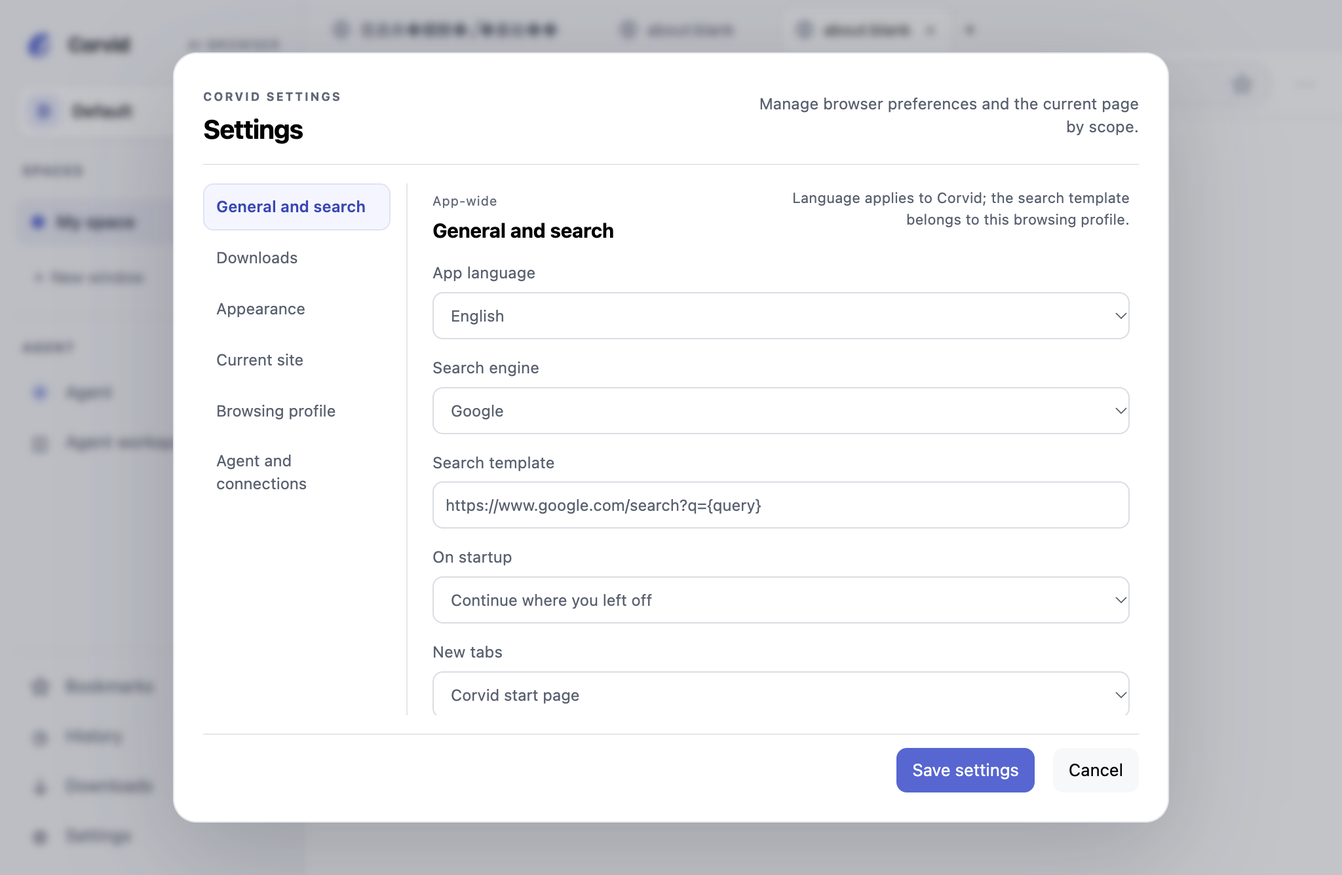
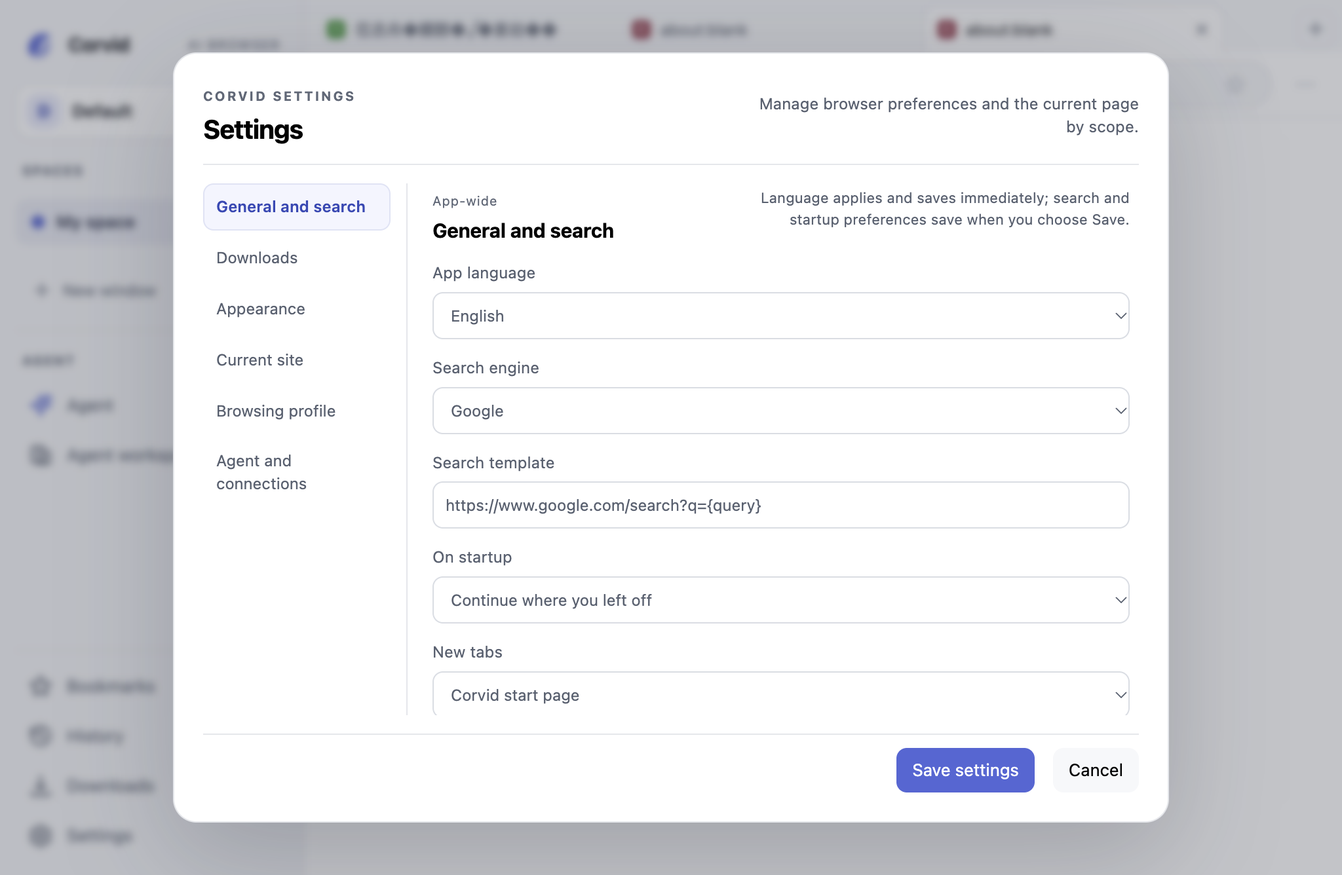
完善设置离开决策与窄窗首屏

diff --git a/desktop/renderer.js b/desktop/renderer.js
@@ -808,7 +808,7 @@ document.querySelector('#profile-deletion-form').onsubmit=async event=>{
 document.querySelector('#cancel-profile-deletion').onclick=()=>document.querySelector('#profile-deletion').close();
 document.querySelector('#profile-deletion').addEventListener('cancel',event=>{if(document.querySelector('#profile-deletion-form').getAttribute('aria-busy')==='true')event.preventDefault();});
 document.querySelector('#profile-deletion').onclose=()=>{profileDeletionPreviewVersion++;return api.invoke('setPanel',{open:Boolean(libraryKind),workspace:Boolean(libraryKind)});};
-let settingsProfileId;
+let settingsProfileId, settingsBaseline=null, pendingSettingsNavigation=null, pendingSettingsDraft=null, pendingSettingsTarget='settings-general', pendingSettingsTrigger=null;
 async function renderProfileExtensions(){
   const list=document.querySelector('#profile-extension-list');list.replaceChildren();
   const {extensions}=await api.invoke('listProfileExtensions',{profileId:settingsProfileId});
@@ -863,7 +863,11 @@ async function renderAgentAccess(){
     }
   }catch(error){document.querySelector('#agent-access-error').textContent=extensionMessages.t('cannotReadAuthorizedClients',{message:userFacingAgentError(error)});}
 }
-document.querySelector('#show-settings').onclick=async()=>{settingsProfileId=state.activeProfileId;const settings=await api.invoke('settings',{profileId:settingsProfileId});const preset=document.querySelector('#search-preset');const known=[...preset.options].some(option=>option.value===settings.searchTemplate);preset.value=known?settings.searchTemplate:'custom';document.querySelector('#search-template').value=settings.searchTemplate;document.querySelector('#theme-preference').value=settings.themePreference||'system';const preferences=settings.browserPreferences||{};document.querySelector('#startup-behavior').value=preferences.startupBehavior||'restore';document.querySelector('#new-tab-behavior').value=preferences.newTabBehavior||'home';document.querySelector('#download-directory').value=preferences.downloadDirectory||'';document.querySelector('#ask-where-to-save').checked=preferences.askWhereToSave!==false;for(const button of document.querySelectorAll('[data-settings-target]'))button.removeAttribute('aria-current');document.querySelector('#settings-nav-general').setAttribute('aria-current','location');for(const section of document.querySelectorAll('.settings-section'))section.hidden=section.id!=='settings-general';document.querySelector('#settings-content').scrollTop=0;document.querySelector('#settings-error').textContent='';await renderProfileExtensions();renderSettingsCurrentSite();await openShellDialog('#settings');};
+function collectSettingsDraft(){return {searchTemplate:document.querySelector('#search-template').value,startupBehavior:document.querySelector('#startup-behavior').value,newTabBehavior:document.querySelector('#new-tab-behavior').value,downloadDirectory:document.querySelector('#download-directory').value,askWhereToSave:document.querySelector('#ask-where-to-save').checked};}
+function applySettingsDraft(draft){const preset=document.querySelector('#search-preset');const known=[...preset.options].some(option=>option.value===draft.searchTemplate);preset.value=known?draft.searchTemplate:'custom';document.querySelector('#search-template').value=draft.searchTemplate;document.querySelector('#startup-behavior').value=draft.startupBehavior;document.querySelector('#new-tab-behavior').value=draft.newTabBehavior;document.querySelector('#download-directory').value=draft.downloadDirectory;document.querySelector('#ask-where-to-save').checked=draft.askWhereToSave;}
+function settingsDraftIsDirty(){return Boolean(settingsBaseline&&JSON.stringify(collectSettingsDraft())!==JSON.stringify(settingsBaseline));}
+async function showSettings({draft=null,targetId='settings-general',focusSelector=null}={}){settingsProfileId=state.activeProfileId;const settings=await api.invoke('settings',{profileId:settingsProfileId});document.querySelector('#theme-preference').value=settings.themePreference||'system';const preferences=settings.browserPreferences||{};settingsBaseline={searchTemplate:settings.searchTemplate,startupBehavior:preferences.startupBehavior||'restore',newTabBehavior:preferences.newTabBehavior||'home',downloadDirectory:preferences.downloadDirectory||'',askWhereToSave:preferences.askWhereToSave!==false};applySettingsDraft(draft||settingsBaseline);for(const button of document.querySelectorAll('[data-settings-target]'))button.removeAttribute('aria-current');const selected=[...document.querySelectorAll('[data-settings-target]')].find(button=>button.dataset.settingsTarget===targetId)||document.querySelector('#settings-nav-general');selected.setAttribute('aria-current','location');for(const section of document.querySelectorAll('.settings-section'))section.hidden=section.id!==selected.dataset.settingsTarget;document.querySelector('#settings-content').scrollTop=0;document.querySelector('#settings-error').textContent='';await renderProfileExtensions();renderSettingsCurrentSite();await openShellDialog('#settings',focusSelector);}
+document.querySelector('#show-settings').onclick=()=>void showSettings();
 function renderSettingsCurrentSite(){
   const tab=activeTab();let origin='';
   try{const url=new URL(tab?.url||'');if(['http:','https:'].includes(url.protocol))origin=url.origin;}catch{}
@@ -898,15 +902,21 @@ document.querySelector('#settings-clear-site').onclick=()=>runSettingsSiteAction
 document.querySelector('#choose-download-directory').onclick=async()=>{const button=document.querySelector('#choose-download-directory');button.disabled=true;try{const result=await api.invoke('chooseDownloadDirectory');if(!result.canceled)document.querySelector('#download-directory').value=result.path;}catch(error){document.querySelector('#settings-error').textContent=userFacingAgentError(error);}finally{button.disabled=false;}};
 document.querySelector('#reset-download-directory').onclick=()=>{document.querySelector('#download-directory').value='';document.querySelector('#settings-error').textContent='';};
 document.querySelector('#ui-locale').onchange=async event=>{const locale=event.currentTarget.value,previous=state.uiLocale;extensionMessages.setLocale(locale);try{await renderProfileExtensions();await api.invoke('setUiLocale',{locale});renderSettingsCurrentSite();}catch{extensionMessages.setLocale(previous);await renderProfileExtensions();renderSettingsCurrentSite();event.currentTarget.value=state.uiLocale;document.querySelector('#settings-error').textContent=extensionMessages.t('localeSaveFailed');}};
-document.querySelector('#open-agent-access').onclick=async()=>{document.querySelector('#settings').close();document.querySelector('#agent-access-error').textContent='';document.querySelector('#agent-client-token-panel').hidden=true;document.querySelector('#agent-client-token').value='';document.querySelector('#agent-client-form').reset();await renderAgentAccess();await openShellDialog('#agent-access-dialog','#agent-client-name');};
+async function openAgentAccessManager(){document.querySelector('#agent-access-error').textContent='';document.querySelector('#agent-client-token-panel').hidden=true;document.querySelector('#agent-client-token').value='';document.querySelector('#agent-client-form').reset();await renderAgentAccess();await openShellDialog('#agent-access-dialog','#agent-client-name');}
+document.querySelector('#open-agent-access').onclick=event=>void leaveSettingsFor(openAgentAccessManager,event.currentTarget);
 document.querySelector('#close-agent-access').onclick=()=>document.querySelector('#agent-access-dialog').close();
 document.querySelector('#agent-access-dialog').addEventListener('close',()=>{document.querySelector('#agent-client-token').value='';document.querySelector('#agent-client-token-panel').hidden=true;document.querySelector('#agent-client-copy-status').textContent='';});
 document.querySelector('#agent-client-form').onsubmit=async event=>{event.preventDefault();const roomIds=[...document.querySelectorAll('input[name="agent-room-id"]:checked')].map(input=>input.value);const error=document.querySelector('#agent-access-error');error.textContent='';if(!roomIds.length){error.textContent=extensionMessages.t('selectAtLeastOneSpace');return;}const submit=document.querySelector('#create-agent-client');submit.disabled=true;try{const client=await api.invoke('createAgentClient',{name:document.querySelector('#agent-client-name').value,roomIds});document.querySelector('#agent-client-form').reset();document.querySelector('#agent-client-token').value=client.token;document.querySelector('#agent-client-token-panel').hidden=false;await renderAgentAccess();document.querySelector('#agent-client-token').focus();}catch(failure){error.textContent=userFacingAgentError(failure);}finally{submit.disabled=!(state?.rooms?.length);}};
 document.querySelector('#copy-agent-client-token').onclick=async()=>{const status=document.querySelector('#agent-client-copy-status');try{await api.invoke('copyTextToClipboard',{text:document.querySelector('#agent-client-token').value});status.textContent=extensionMessages.t('copiedToClipboard');}catch(error){status.textContent=extensionMessages.t('copyFailed',{message:userFacingAgentError(error)});}};
 document.querySelector('#search-preset').onchange=event=>{if(event.target.value!=='custom')document.querySelector('#search-template').value=event.target.value;};
 document.querySelector('#search-template').oninput=()=>{document.querySelector('#search-preset').value='custom';};
-document.querySelector('#settings-form').onsubmit=async event=>{event.preventDefault();const submit=event.submitter;submit.disabled=true;try {await api.invoke('saveSettings',{profileId:settingsProfileId,searchTemplate:document.querySelector('#search-template').value});await api.invoke('setBrowserPreferences',{startupBehavior:document.querySelector('#startup-behavior').value,newTabBehavior:document.querySelector('#new-tab-behavior').value,downloadDirectory:document.querySelector('#download-directory').value,askWhereToSave:document.querySelector('#ask-where-to-save').checked});document.querySelector('#settings').close();}catch(error){document.querySelector('#settings-error').textContent=userFacingAgentError(error);}finally{submit.disabled=false;}};
-document.querySelector('#open-agent-models-from-settings').onclick=async()=>{document.querySelector('#settings').close();await openPiModelSettings();};
+async function saveSettingsDraft(){const submit=document.querySelector('#settings-form button[type=submit]');submit.disabled=true;try{const draft=collectSettingsDraft();await api.invoke('saveSettings',{profileId:settingsProfileId,searchTemplate:draft.searchTemplate});await api.invoke('setBrowserPreferences',{startupBehavior:draft.startupBehavior,newTabBehavior:draft.newTabBehavior,downloadDirectory:draft.downloadDirectory,askWhereToSave:draft.askWhereToSave});settingsBaseline=draft;document.querySelector('#settings-error').textContent='';return true;}catch(error){document.querySelector('#settings-error').textContent=userFacingAgentError(error);return false;}finally{submit.disabled=false;}}
+async function leaveSettingsFor(destination,trigger){const settingsDialog=document.querySelector('#settings');if(!settingsDraftIsDirty()){settingsDialog.close();await destination();return;}const form=document.querySelector('#settings-form');if(!form.reportValidity())return;pendingSettingsNavigation=destination;pendingSettingsDraft=collectSettingsDraft();pendingSettingsTarget=document.querySelector('[data-settings-target][aria-current]')?.dataset.settingsTarget||'settings-general';pendingSettingsTrigger=trigger?.id?'#'+trigger.id:null;settingsDialog.close();await openShellDialog('#settings-leave-dialog','#settings-leave-stay');}
+async function resolveSettingsLeave(action){const leaveDialog=document.querySelector('#settings-leave-dialog'),draft=pendingSettingsDraft,navigate=pendingSettingsNavigation,targetId=pendingSettingsTarget,focusSelector=pendingSettingsTrigger;if(action==='save'&&!await saveSettingsDraft()){const message=document.querySelector('#settings-error').textContent;leaveDialog.close();pendingSettingsNavigation=null;pendingSettingsDraft=null;await showSettings({draft,targetId,focusSelector});document.querySelector('#settings-error').textContent=message;return;}leaveDialog.close();pendingSettingsNavigation=null;pendingSettingsDraft=null;pendingSettingsTrigger=null;if(action==='stay'){await showSettings({draft,targetId,focusSelector});return;}if(navigate)await navigate();}
+for(const [id,action] of [['settings-leave-stay','stay'],['settings-leave-discard','discard'],['settings-leave-save','save']])document.querySelector('#'+id).onclick=()=>void resolveSettingsLeave(action);
+document.querySelector('#settings-leave-dialog').addEventListener('cancel',event=>{event.preventDefault();void resolveSettingsLeave('stay');});
+document.querySelector('#settings-form').onsubmit=async event=>{event.preventDefault();if(await saveSettingsDraft())document.querySelector('#settings').close();};
+document.querySelector('#open-agent-models-from-settings').onclick=event=>void leaveSettingsFor(()=>openPiModelSettings(),event.currentTarget);
 document.querySelector('#cancel-settings').onclick=()=>document.querySelector('#settings').close();
 document.querySelector('#settings').onclose=()=>api.invoke('setPanel',{open:Boolean(libraryKind),workspace:Boolean(libraryKind)});
 document.querySelector('#close-pi-model-settings').onclick=()=>document.querySelector('#pi-model-settings').close();

diff --git a/desktop/index.html b/desktop/index.html
@@ -161,6 +161,7 @@
     </div>
     <footer class="settings-actions"><span id="settings-error" role="alert"></span><button type="submit" data-i18n="save">保存设置</button><button type="button" id="cancel-settings" data-i18n="cancel">取消</button></footer>
   </form></dialog>
+  <dialog id="settings-leave-dialog" aria-labelledby="settings-leave-title" aria-describedby="settings-leave-description"><div class="settings-leave-content"><h2 id="settings-leave-title" data-i18n="settingsLeaveTitle">未保存的更改</h2><p id="settings-leave-description" data-i18n="settingsLeaveDescription">部分偏好尚未保存。语言和主题已立即生效并保存；此处放弃只会丢弃其他未保存的偏好。</p><div class="settings-leave-actions"><button type="button" id="settings-leave-stay" data-i18n="settingsLeaveStay">继续编辑</button><button type="button" id="settings-leave-discard" data-i18n="settingsLeaveDiscard">放弃更改并继续</button><button type="button" id="settings-leave-save" data-i18n="settingsLeaveSave">保存并继续</button></div></div></dialog>
   <dialog id="agent-access-dialog" aria-labelledby="agent-access-title"><div class="agent-access-dialog"><header class="import-heading"><div><span class="panel-eyebrow" data-i18n="corvidAgentAccessEyebrow">CORVID AGENT 授权</span><h2 id="agent-access-title" data-i18n="agentAccessTitle">外部 Agent 访问</h2></div><button type="button" id="close-agent-access" aria-label="关闭授权管理" data-i18n-aria-label="closeAccessManagement"><svg viewBox="0 0 20 20" aria-hidden="true"><path d="m5 5 10 10M15 5 5 15"/></svg></button></header><p class="agent-access-intro" data-i18n="agentAccessIntro">为每个外部客户端单独授权一个或多个空间。密钥只能读取已授权空间；撤销后立即失效。</p><p class="agent-access-boundary" data-i18n="agentAccessBoundary">不要把密钥提交到代码仓库或共享给不受信任的主机。本机同一用户进程仍处于 Corvid 管理员信任范围内。</p><form id="agent-client-form"><label><span data-i18n="clientName">客户端名称</span> <input id="agent-client-name" required maxlength="80" placeholder="例如：Browser MCP" data-i18n-placeholder="clientNamePlaceholder"></label><fieldset id="agent-room-scope"><legend data-i18n="allowedSpaces">允许访问的空间</legend><div id="agent-room-options" class="agent-room-options"></div></fieldset><span id="agent-access-error" role="alert"></span><button type="submit" id="create-agent-client" data-i18n="createAccessToken">创建访问密钥</button></form><section id="agent-client-token-panel" class="agent-client-token-panel" hidden aria-labelledby="agent-client-token-title"><h3 id="agent-client-token-title" data-i18n="accessTokenCreated">访问密钥已创建</h3><p data-i18n="accessTokenOneTime">只显示这一次。请立即复制到该客户端的安全配置中；MCP 主机使用环境变量 CORVID_AGENT_TOKEN。</p><textarea id="agent-client-token" readonly rows="3" aria-label="一次性 Agent 访问密钥" data-i18n-aria-label="oneTimeAgentToken"></textarea><div class="agent-client-token-actions"><button type="button" id="copy-agent-client-token" data-i18n="copyAccessToken">复制访问密钥</button><span id="agent-client-copy-status" role="status"></span></div></section><section class="agent-client-list-section" aria-labelledby="agent-client-list-title"><h3 id="agent-client-list-title" data-i18n="authorizedClients">已授权客户端</h3><div id="agent-client-list" role="group" aria-label="已授权客户端" data-i18n-aria-label="authorizedClients" aria-live="polite"></div></section></div></dialog>
   <dialog id="pi-model-settings" aria-labelledby="pi-model-settings-title"><form id="pi-model-endpoint-form"><header class="import-heading"><div><span class="panel-eyebrow" data-i18n="corvidModelCatalogEyebrow">CORVID 模型目录</span><h2 id="pi-model-settings-title" data-i18n="modelCatalog">管理 Corvid Agent 模型</h2></div><button type="button" id="close-pi-model-settings" aria-label="关闭模型设置" data-i18n-aria-label="close"><svg viewBox="0 0 20 20" aria-hidden="true"><path d="m5 5 10 10M15 5 5 15"/></svg></button></header><p data-i18n="addCompatibleEndpoint">添加 OpenAI Chat Completions 兼容端点。配置只保存在 Corvid 数据目录，API Key 不会显示在模型列表中。留空时会发送无敏感占位 Bearer，端点需忽略此认证头。</p><div id="pi-custom-endpoints" class="pi-custom-endpoints" role="group" aria-label="自定义模型端点" data-i18n-aria-label="customModelEndpoints"></div><h3 id="pi-endpoint-form-title" data-i18n="addCustomEndpoint">添加自定义端点</h3><input id="pi-endpoint-id" type="hidden"><label><span data-i18n="name">名称</span> <input id="pi-endpoint-name" required maxlength="80" placeholder="例如：本地模型" data-i18n-placeholder="localModelPlaceholder"></label><label><span data-i18n="baseUrl">API 基础地址</span> <input id="pi-endpoint-url" type="url" required placeholder="http://127.0.0.1:11434/v1"></label><label><span data-i18n="optionalApiKey">API Key（可选）</span> <input id="pi-endpoint-key" type="password" autocomplete="new-password" spellcheck="false" placeholder="留空可保留现有 Key" data-i18n-placeholder="keepExistingKey"></label><label><span data-i18n="modelIds">模型 ID</span> <textarea id="pi-endpoint-model-ids" required rows="3" placeholder="每行或逗号分隔一个模型 ID" data-i18n-placeholder="modelIdsPlaceholder"></textarea></label><label class="pi-endpoint-clear-key"><input id="pi-endpoint-clear-key" type="checkbox"> <span data-i18n="clearSavedApiKey">清除已保存的 API Key（端点无需认证时使用）</span></label><div id="pi-endpoint-discovered" class="pi-endpoint-discovered" role="status"></div><span id="pi-endpoint-error" role="alert"></span><div class="pi-endpoint-actions"><button type="button" id="discover-pi-endpoint-models" data-i18n="discoverModels">从端点读取模型列表</button><button type="submit" id="save-pi-endpoint" data-i18n="saveEndpoint">保存端点</button><button type="button" id="reset-pi-endpoint-form" data-i18n="clearForm">清空表单</button></div></form></dialog>
   <dialog id="chrome-import"><form id="chrome-import-form"><header class="import-heading"><div><span class="panel-eyebrow" data-i18n="browserData">BROWSER DATA</span><h2 data-i18n="chromeImportTitle">从 Google Chrome 导入</h2></div><button type="button" id="cancel-chrome-import" aria-label="关闭导入" data-i18n-aria-label="closeImport"><svg viewBox="0 0 20 20" aria-hidden="true"><path d="m5 5 10 10M15 5 5 15"/></svg></button></header><div class="chrome-import-content"><p class="import-intro" data-i18n="chromeImportIntro">建议先退出 Chrome，确保资料完整。这里只读取你选择的本机资料，不改动源文件，也不会上传。</p><label class="import-target"><span data-i18n="importTargetProfile">导入到 Corvid 浏览身份</span> <select id="chrome-import-target-profile" aria-label="导入目标浏览身份" data-i18n-aria-label="importTargetProfile"></select></label><button type="button" id="choose-chrome-source" data-i18n="chooseChromeDirectory">选择 Chrome 资料目录…</button><label><span data-i18n="chromeProfile">Chrome Profile</span> <select id="chrome-source-profile" disabled><option value="" data-i18n="chooseDirectoryFirst">先选择资料目录</option></select></label><div id="chrome-import-preview" class="import-preview" role="status" data-i18n="chooseDirectoryForCounts">选择目录后会显示可导入项目数量。</div><fieldset id="chrome-import-categories" disabled><legend data-i18n="chooseDataToImport">选择要导入的资料</legend><label><input type="checkbox" name="chrome-category" value="bookmarks" checked> <span data-i18n="bookmarks">书签</span> <span id="chrome-bookmark-count">0 项</span><small id="chrome-bookmark-error" class="import-category-error" role="status" hidden></small></label><label><input type="checkbox" name="chrome-category" value="history" checked> <span data-i18n="history">浏览历史</span> <span id="chrome-history-count">0 项</span><small id="chrome-history-error" class="import-category-error" role="status" hidden></small></label><label><input type="checkbox" name="chrome-category" value="cookies"> <span data-i18n="cookiesLogin">Cookie（登录状态）</span> <span id="chrome-cookie-count">0 项</span><small id="chrome-cookie-error" class="import-category-error" role="status" hidden></small></label><label><input type="checkbox" name="chrome-category" value="extensions"> <span data-i18n="chromeExtensions">Chrome 扩展</span> <span id="chrome-extension-count">0 项</span></label></fieldset><section id="chrome-cookie-consent" class="chrome-cookie-consent" hidden aria-labelledby="chrome-cookie-consent-title"><h3 id="chrome-cookie-consent-title" data-i18n="importCookieKeychainTitle">导入 Cookie 会读取 macOS 钥匙串</h3><p data-i18n="importCookieKeychainDescription">确认导入后，Corvid 会请求访问“Chrome Safe Storage”以解密所选 Chrome Profile 的 Cookie。macOS 可能显示钥匙串授权提示；拒绝授权或取消导入都不会写入 Cookie。Cookie 只保存到上方指定的浏览身份，不会上传。</p><label><input type="checkbox" id="chrome-cookie-consent-check"> <span data-i18n="cookieImportConsent">我了解此操作会读取 Chrome 登录 Cookie，并同意导入到此 Corvid 浏览身份。</span></label></section><div id="chrome-extension-choices" class="chrome-extension-choices" aria-label="选择 Chrome 扩展" data-i18n-aria-label="chooseChromeExtensions"></div><p class="import-limitation" data-i18n="chromeImportLimitations">扩展代码会在目标 Corvid 浏览身份中运行。请核对每个扩展的权限；Electron 只支持部分 Chrome 扩展 API，扩展工具栏弹窗暂未集成；导入后可能无法使用，已打开的页面需要重新加载。扩展设置与已保存密码不会迁移。Cookie 导入仅支持 macOS；会话 Cookie 会在 Corvid 退出时按源语义失效，带有效期的 Cookie 可跨重启保留。</p></div><footer class="chrome-import-actions"><span id="chrome-import-error" role="status"></span><button type="button" id="cancel-chrome-import-footer" data-i18n="cancel">取消</button><button type="submit" id="confirm-chrome-import" disabled data-i18n="importSelectedData">导入所选资料</button></footer></form></dialog>

diff --git a/desktop/locales.js b/desktop/locales.js
@@ -107,9 +107,9 @@
       settingsIntro: '按范围管理浏览器偏好与当前页面。',
       settingsCategories: '设置分类',
       settingsGeneral: '常规与搜索',
-      settingsGeneralDescription: '语言属于应用；搜索模板属于当前浏览身份。',
+      settingsGeneralDescription: '语言会立即应用并保存；搜索和启动偏好在点击保存后写入。',
       settingsDownloads: '下载',
-      settingsDownloadsDescription: '下载保存位置应用于所有浏览身份。',
+      settingsDownloadsDescription: '下载保存位置应用于所有浏览身份；更改在点击保存后写入。',
       startupBehaviorLabel: '启动时',
       startupRestore: '继续上次浏览',
       startupNewTab: '打开一个新标签页',
@@ -129,7 +129,12 @@
       themeSystem: '跟随系统',
       themeLight: '浅色',
       themeDark: '深色',
-      themeNote: '网页内容仍由网站自身决定配色。',
+      themeNote: '主题会立即应用并保存；取消不会撤销。网页内容仍由网站自身决定配色。',
+      settingsLeaveTitle: '未保存的更改',
+      settingsLeaveDescription: '部分偏好尚未保存。语言和主题已立即生效并保存；此处放弃只会丢弃其他未保存的偏好。',
+      settingsLeaveStay: '继续编辑',
+      settingsLeaveDiscard: '放弃更改并继续',
+      settingsLeaveSave: '保存并继续',
       themeSaveFailed: '无法保存主题设置，请重试。',
       settingsSite: '当前网站',
       settingsSiteDescription: '权限按当前来源查看；清理前会说明数据和 Cookie 范围。',
@@ -598,9 +603,9 @@
       settingsIntro: 'Manage browser preferences and the current page by scope.',
       settingsCategories: 'Settings categories',
       settingsGeneral: 'General and search',
-      settingsGeneralDescription: 'Language applies to Corvid; the search template belongs to this browsing profile.',
+      settingsGeneralDescription: 'Language applies and saves immediately; search and startup preferences save when you choose Save.',
       settingsDownloads: 'Downloads',
-      settingsDownloadsDescription: 'The download location applies to all browsing profiles.',
+      settingsDownloadsDescription: 'The download location applies to all browsing profiles; changes save when you choose Save.',
       startupBehaviorLabel: 'On startup',
       startupRestore: 'Continue where you left off',
       startupNewTab: 'Open a new tab',
@@ -620,7 +625,12 @@
       themeSystem: 'Follow system',
       themeLight: 'Light',
       themeDark: 'Dark',
-      themeNote: 'Web pages keep the colors chosen by each site.',
+      themeNote: 'The theme applies and saves immediately; Cancel does not undo it. Web pages keep the colors chosen by each site.',
+      settingsLeaveTitle: 'Unsaved changes',
+      settingsLeaveDescription: 'Some preferences are not saved yet. Language and theme changes already took effect and were saved; discarding here only removes the other unsaved preferences.',
+      settingsLeaveStay: 'Keep editing',
+      settingsLeaveDiscard: 'Discard and continue',
+      settingsLeaveSave: 'Save and continue',
       themeSaveFailed: 'Could not save the theme setting. Try again.',
       settingsSite: 'Current site',
       settingsSiteDescription: 'Review permissions by origin; see data and cookie scope before cleanup.',

diff --git a/desktop/styles.css b/desktop/styles.css
@@ -604,6 +604,13 @@ dialog { width: min(500px, calc(100vw - 36px)); padding: 22px; border: 1px solid
 .settings-actions #settings-error { min-width: 0; flex: 1; color: var(--danger); font-size: 11px; overflow-wrap: anywhere; }
 .settings-actions button { min-height: 34px; padding: 7px 12px; background: var(--surface-soft); }
 .settings-actions button[type="submit"] { background: var(--accent-solid); color: white; }
+.settings-leave-content { display: grid; gap: 12px; }
+#settings-leave-dialog { width: min(460px, calc(100vw - 32px)); padding: 22px; border: 1px solid var(--line); border-radius: var(--radius-lg); background: var(--surface); color: var(--text); box-shadow: 0 18px 52px rgb(18 24 40 / 22%); }
+.settings-leave-content h2 { margin: 0; font-size: 18px; }
+.settings-leave-content p { margin: 0; color: var(--text-secondary); font-size: 13px; line-height: 1.5; }
+.settings-leave-actions { display: flex; flex-wrap: wrap; justify-content: flex-end; gap: 8px; }
+.settings-leave-actions button { min-height: 36px; padding: 7px 11px; }
+#settings-leave-save { border-color: transparent; background: var(--accent-solid); color: white; }
 @media (max-width: 760px) {
   #settings { width: calc(100vw - 20px); height: min(700px, 92vh); max-height: 92vh; padding: 14px; }
   #settings-form { gap: 10px; }
@@ -683,6 +690,24 @@ dialog form > button[type="submit"] { background: var(--accent-solid); color: wh
 .profile-deletion-actions .danger-button { border-color: transparent; background: var(--danger); color: white; }
 #profile-deletion .profile-deletion-actions .danger-button:disabled { opacity: 1; border-color: var(--line); background: var(--surface-neutral); color: var(--text-muted); cursor: not-allowed; }
 @media (max-height: 520px) {
+  #settings { height: min(700px, 96vh); max-height: 96vh; }
+  #settings { padding: 10px; }
+  #settings-form { gap: 7px; }
+  .settings-center-header { padding-bottom: 6px; }
+  .settings-center-header h2 { font-size: 18px; }
+  .settings-center-header p { display: none; }
+  .settings-center-body { gap: 5px; }
+  .settings-nav { gap: 2px; padding-bottom: 4px; }
+  .settings-nav button { min-height: 28px; padding: 4px 6px; font-size: 11px; }
+  .settings-section { gap: 6px; padding-bottom: 8px; }
+  .settings-scope { display: none; }
+  .settings-section-header { gap: 6px; }
+  .settings-section-header p { font-size: 10px; line-height: 1.35; }
+  .settings-actions { padding-top: 6px; }
+  #download-directory { overflow: hidden; text-overflow: ellipsis; white-space: nowrap; }
+  #settings-leave-dialog { padding: 16px; }
+  .settings-leave-actions { justify-content: stretch; }
+  .settings-leave-actions button { flex: 1 1 auto; }
   #profile-deletion { padding: 14px; max-height: 94vh; }
   .profile-deletion-form { gap: 8px; }
   .profile-deletion-heading h2 { font-size: 18px; }

diff --git a/docs/qa/ui-visual-check.md b/docs/qa/ui-visual-check.md
@@ -123,7 +123,16 @@
 - 直接观察：macOS 本机 Electron 45.2.1，隔离 `CORVID_DATA_DIR` 与本地 HTTP fixture；截图在 2026-11-03 由 `tests/settings-preferences-e2e.cjs` 生成，窗口为 1024×700 与 700×420 CSS px，界面分别为 zh-CN/en，无个人网页、账号或凭据。常规窗截图展示常规设置；窄窗截图展示下载分类。[中文 1024×700](screenshots/issue-165-settings-preferences-zh-CN-1024x700.png)、[中文 700×420](screenshots/issue-165-settings-preferences-zh-CN-700x420.png)、[英文 1024×700](screenshots/issue-165-settings-preferences-en-1024x700.png)、[英文 700×420](screenshots/issue-165-settings-preferences-en-700x420.png)。截图采集时刻未留存。
 - 视觉调整：窄窗分类从横向滚动改为三列两行网格，让“Agent 与连接 / Agent and connections”等六个入口完整可见；E2E 直接检查 700px 窄窗下无横向溢出、所有按钮边界均在导航区域内。类别选择只显示当前设置分区，滚动回到该分区顶部，避免其他类别末尾内容混入当前视图。主题色、圆角、表面与固定保存操作沿用 Corvid 现有样式，不增加装饰动画。
 - UI/UE 参考与 REA：仍使用 EasyUI 首页信息分区参考，REA Evidence `ev_d2996c2ec957254fbbdaf189ae26cd41f3bf738048af3abad217259da86f4755`；站点、直接观察、静态证据、推断与未知边界已详述在本节上方“设置中心首个切片”。新增窄窗导航判断来自 Corvid 自身双语截图与 DOM 几何断言，不把 EasyUI 首页推断为设置页或三列导航设计规范；没有复制代码、样式或素材。
-- 未知与限制：局部 Electron fixture 证明设置分类和表单当前截图状态，不代表屏幕阅读器播报、完整键盘操作、真实系统文件夹/保存对话框或 Windows/Linux/打包版表现。700×420 下载面板内容较长，仍需滚动；这由独立内容区承载且不遮挡保存/取消操作。
+- 未知与限制：局部 Electron fixture 证明设置分类和表单当前截图状态，不代表屏幕阅读器播报、完整键盘操作、真实系统文件夹/保存对话框或 Windows/Linux/打包版表现。后续窄窗首屏与滚动边界在下方 2026-11-04 复核中补充。
+
+### Issue #285 离开设置时的草稿与窄窗首屏（2026-11-04）
+
+- 直接观察：解锁后的本机 Corvid 原生 Electron 窗口中，通过 CUA 查看设置中心截图及可访问性树，确认六个分类、表单与固定保存/取消操作均可访问；截图未作为可分发证据保留。另一次 REA `observe_native_ui` 对隔离 Electron 窗口返回 `capability_unavailable`，原因是 provider 无法提供可验证的进程启动时间，故不把该尝试标为 REA 原生观察。运行态 E2E 截图来自隔离临时 `CORVID_DATA_DIR`、本地 HTTP fixture 与 `about:blank`，没有用户网页或 Profile 数据。
[2 lines of base64/hex data omitted]
+- 键盘：真实 Electron E2E 以 Tab 从首分类移至下一分类，并断言 `:focus-visible` 与实线轮廓；设置离开决策的 Escape 不会丢弃操作，而是返回当前设置。没有完成全产品键盘审计或屏幕阅读器实播。
+- 视觉判断与参考：保持 Corvid 既有边框、强调色、固定动作区和克制表面；窄窗压缩优先让文件夹路径与常用按钮同屏，而把次级询问选项留在滚动区。分类层级参考沿用 EasyUI 首页 REA Evidence `ev_d2996c2ec957254fbbdaf189ae26cd41f3bf738048af3abad217259da86f4755` 与 Aceternity Grouped Sidebar `ev_ebf975bd570dbe44f649677ff4df073cb74ff0afc275ae21c1e699336ecbb7bb` 的有限直接观察；未重新扫描市场站点，也不将其当作设置页验收要求。没有复制代码、样式或素材。
+- 未覆盖：REA 原生窗口观察不可用；CUA 原生截图未保存。已保存截图为隔离 Electron/Playwright 运行态的 renderer 截图，不证明 macOS 原生文件夹选择器、Windows/Linux、签名包、VoiceOver 或网页 WebContentsView 合成像素。
 
 ### Issue #165 当前网站分类入口增量
 

diff --git a/docs/execution/feature-board.md b/docs/execution/feature-board.md
@@ -94,7 +94,7 @@
 | D16 | 部分 | **其他日常功能**。已部分接入：设置（搜索模板、缩放）、快捷键、网页打印（更多浏览工具菜单与 Cmd/Ctrl+P，隔离 Electron fixture 覆盖调用和失败/取消呈现；原生打印对话框待人工验收）、站点权限/站点数据面板、页内查找（Cmd/Ctrl+F 查找条、结果计数、前后跳转、Esc 关闭，见 D07 证据）、下载文件操作与安全重试（打开/在文件夹中显示，见 D08 证据）、窗口状态持久化（见 D06 证据）、标签固定与标签右键菜单（应用内菜单，见 D06/D07 证据）；系统剪贴板（整页复制等）、媒体、开发者工具与下载续传未实现或未调查；原生菜单由 [Issue #162](https://github.com/heyallencao/corvid/issues/162) 跟踪，已替换 Electron 默认菜单并通过 macOS 隔离 Electron 双语、动作、窗口 callback 路由和 Agent Room 权限 E2E；System Events 原生窗口菜单勾选与焦点双向复核见 [Issue #167](https://github.com/heyallencao/corvid/issues/167)；Windows/Linux、VoiceOver、打包版及编辑角色对实际输入控件的委派仍待验收；窗口全屏已实现并通过 macOS 主路径真实 Electron E2E，其他平台和打包版仍待验证，见 D06 与 Issue #141；多窗口已由 D06 实现并有 Electron E2E 覆盖，平台边界仍待补测。 | ① 逐项先定义用户行为、错误路径和退出恢复，再实现与测试。② "已实现"与"已验证"分列。③ 不把通用浏览器预期当已实现；未调查项保持"待实现/未知"。 |
 | D17 | 部分 | **平台与分发**。已在 macOS arm64 验证未签名 `.app` 开发包的构建与隔离启动，见 [Issue #146](https://github.com/heyallencao/corvid/issues/146) 与[打包边界](../architecture/distribution.md)。签名/公证、安装器、默认浏览器/协议、升级/回滚/卸载、macOS x64、Windows/Linux 和崩溃上报均未验证。 | ① 在全新环境验证 macOS arm64/x64 与 Windows x64 的构建、安装、运行、升级。② 记录 OS、架构、Electron 版本、签名与结果。③ 无法取得的平台标"未验证"，禁止用模拟结果代替；开发包 smoke test 不代表可公开分发。 |
 | D18 | 部分 | **持续发现与能力台账**。已具备：本板、验证记录与测试索引构成初始能力矩阵。差距：没有独立的发现流程、来源记录与定期复核机制，未调查能力仍可能被误读为已穷尽。 | ① 维护能力台账（能力、来源、观察/推断/未知、证据、验收状态）。② 只使用公开资料、自建夹具与自有产品行为，不访问私人浏览数据。③ 发现新能力时新增任务、更新本板与测试索引；无法复现的观察标"未知"。 |
-| D25 | 部分 | **完整、可扩展的浏览器设置中心**（[Issue #165](https://github.com/heyallencao/corvid/issues/165)）。PR #172 覆盖设置分类与应用/当前网站/浏览身份/Agent 范围，新增主题、启动/新标签、下载偏好及 schemaVersion 迁移；设置 E2E 覆盖中英文、窄窗、启动恢复和站点权限/数据操作。未覆盖真实系统对话框、屏幕阅读器、跨平台与打包版。离开设置进入 Agent 管理时草稿丢失和即时生效项语义另由 [Issue #285](https://github.com/heyallencao/corvid/issues/285) 跟踪。 | ① 处理未保存草稿和即时生效说明。② 验证 700×420 首屏及键盘导航/焦点返回。③ 补测真实系统文件夹/确认对话框与 Windows/Linux/打包版；每项需隔离数据和明确覆盖边界。 |
+| D25 | 部分 | **完整、可扩展的浏览器设置中心**（[Issue #165](https://github.com/heyallencao/corvid/issues/165)）。PR #172 覆盖设置分类与应用/当前网站/浏览身份/Agent 范围，新增主题、启动/新标签、下载偏好及 schemaVersion 迁移；本轮补充未保存草稿决策、即时生效说明、700×420 下载路径/操作首屏和 Tab 焦点 E2E（见 [Issue #285](https://github.com/heyallencao/corvid/issues/285)）。真实系统对话框、屏幕阅读器、全产品键盘审计、跨平台与打包版仍未覆盖。 | ① 本切片验证草稿继续/放弃/保存三路径、管理导航焦点恢复与即时生效文案。② 700×420 下载路径和文件夹操作首屏完整可见，类别键盘焦点可见。③ 补测真实系统文件夹/确认对话框、全产品辅助技术和 Windows/Linux/打包版；每项需隔离数据和明确覆盖边界。 |
 
 ## 持续交付证据治理（Issue #244）
 

diff --git a/docs/execution/issue-165-settings-center.md b/docs/execution/issue-165-settings-center.md
@@ -11,6 +11,8 @@
 - 启动选择“打开一个新标签页”时保留上次恢复的页面，在活动空间复用已有用户空白标签，避免每次重启累积标签；新标签页偏好只影响用户创建的 `about:blank`，不改变 Agent 页面。
 - 设置中心按当前活动标签显示 HTTP(S) 来源；其他页面、空标签与非网页协议下禁用站点操作。可用时沿用现有权限查看及清理数据确认流程。
 - 分类按钮同步 `aria-current` 并把焦点移到对应分区。宽屏使用分类侧栏，窄窗切为上下布局；内容区独立滚动，保存与取消操作固定。
+- 从设置打开模型管理或 Agent 授权前，检查待保存的启动、新标签与下载偏好；用户可继续编辑、放弃后继续，或保存后继续。继续编辑恢复原分类、草稿和焦点；Escape 返回设置，不隐式丢弃。语言与主题即时生效并保存，双语界面明确说明 Cancel 不回滚这些即时项。
+- 700×420 窄窗会压缩设置留白，确保下载路径及文件夹操作首屏可见；其它下载选项继续在独立内容区滚动查看，保存/取消固定可见。
 
 ## 数据与边界
 
@@ -23,6 +25,7 @@
 - 首个设置切片的 `tests/localization-e2e.cjs` 曾检查 zh-CN/en 资源、分类选择与焦点、无当前网页时站点操作禁用、主题即时应用、0600 持久化和重启恢复。单独重放到当时主线后复跑时，在 Agent 模型管理入口 `.pi-model-manage` 等待超时，尚未到达设置断言；随后在 #172 head `08aee4a` 与 #187 head `a49c6cf` 的隔离组合 worktree 中重跑，本地化与两项设置 E2E 均通过。组合结果和边界见 [PR #187 联调记录](https://github.com/heyallencao/corvid/pull/187)。
 - `env -u ELECTRON_RUN_AS_NODE CORVID_CAPTURE_QA_SCREENSHOTS=1 node tests/settings-preferences-e2e.cjs` 已通过，覆盖 schemaVersion 1 迁移、设置保存/重启、空白页注入开关、启动新标签复用、下载取消与自动保存、失效目录中英文错误，以及 700×420 设置布局；更新的中英文截图见[视觉检查记录](../qa/ui-visual-check.md)。
 - `env -u ELECTRON_RUN_AS_NODE CORVID_CAPTURE_QA_SCREENSHOTS=1 node tests/settings-site-e2e.cjs` 已通过：空白页禁用站点操作；活动 HTTP(S) 来源显示与操作启用；合成通知权限获准后可在设置中取消审查并保留授权、确认撤销；取消站点数据清理保持 fixture localStorage，确认后清除且不改变独立权限；确认默认选择为非破坏项；语言切换后动态来源仍正确。Electron 权限/清理确认框用替身控制结果。测试截图在 700×420 需滚动内容区，并验证范围说明、当前来源、两个操作按钮及固定底部动作可完整显示。
+- 2026-11-04 增量：`NODE_PATH=/Users/allen/Workspace/projects/personal/corvid/node_modules env -u ELECTRON_RUN_AS_NODE CORVID_CAPTURE_QA_SCREENSHOTS=1 node tests/settings-preferences-e2e.cjs` 通过，增加低高度下载控件首屏几何断言、键盘可见焦点、保留/放弃/保存草稿路径及模型/Agent 管理导航。截图与视觉限制见 [设置中心 QA](../qa/ui-visual-check.md#issue-285-离开设置时的草稿与窄窗首屏2026-11-04)。该脚本由本地 HTTP fixture、临时数据目录和本机 Electron 驱动，没有登录 OAuth 或发起模型请求。
 - 系统文件夹/保存对话框由测试替身覆盖；真实桌面对话框还需单独验收。
 
 ## 尚未覆盖

diff --git a/docs/reviews/verification-log.md b/docs/reviews/verification-log.md
@@ -1451,3 +1451,12 @@
 - 环境：独立 worktree `/private/tmp/corvid-sdk-keyboard-chord`，基于 `origin/main` `20502ea`；macOS arm64、Node.js v24.22.1、Electron 45.2.1；隔离 `CORVID_DATA_DIR`、SDK 测试本地 HTTP fixture。未读取用户浏览数据、访问真实网站、登录 OAuth 或调用模型。
 - 验证：`node --check desktop/actions.cjs`、`node --check sdk/e2e.js`、`git diff --check` 通过；`env -u ELECTRON_RUN_AS_NODE node tests/sdk-e2e.cjs` EXIT 0。覆盖文本框与 `contenteditable` 中 Meta+A 的全文/宿主内选区、Meta+Shift+Left 实际扩展选区并替换为期望文本、既有 Control+A 按键路径和 SDK 输入回归。测试使用临时 `node_modules` 链接并在结束后移除；Electron 与 fixture 已退出。
 - 限制：未运行全量 `npm test`、正式打包、Windows/Linux；只覆盖 Chromium 文本框和 contenteditable 上列出的 macOS 命令映射，不证明网页对快捷键的自定义拦截、所有编辑命令或其他 OS 键盘绑定。
+
+## 2026-11-04 设置中心未保存决策与低高度布局（Issue #285）
+
+- 运行环境：隔离 worktree `/private/tmp/corvid-review-172-latest`，macOS arm64、Electron 45.2.1、Node.js v24.22.1；真实 Electron 使用脚本创建并清理的临时数据目录及本地 HTTP fixture。未使用真实模型、OAuth 或用户浏览数据。
+- 验证通过：`NODE_PATH=/Users/allen/Workspace/projects/personal/corvid/node_modules env -u ELECTRON_RUN_AS_NODE CORVID_CAPTURE_QA_SCREENSHOTS=1 node tests/settings-preferences-e2e.cjs` 与 `NODE_PATH=/Users/allen/Workspace/projects/personal/corvid/node_modules env -u ELECTRON_RUN_AS_NODE CORVID_CAPTURE_QA_SCREENSHOTS=1 node tests/settings-site-e2e.cjs`。偏好覆盖 schema 迁移、保存/重启、700×420 下载路径与文件夹操作首屏几何、中英文、Tab 可见焦点、草稿继续/放弃/保存、模型/Agent 管理跳转与恢复；站点用例回归来源绑定、权限与数据清理合同。
+- 静态检查：`node --check desktop/renderer.js`、`node --check desktop/locales.js`、`node --check tests/settings-preferences-e2e.cjs`、`node --check tests/settings-site-e2e.cjs`、`node -e "JSON.parse(require('fs').readFileSync('package.json'))"` 与 `git diff --check` 均通过。
+- 截图：双语 700×420 下载页及中文未保存决策框已重新采集并目视检查，像素尺寸、SHA-256 和直接观察边界见[QA 视觉记录](../qa/ui-visual-check.md#issue-285-离开设置时的草稿与窄窗首屏2026-11-04)。下载前询问及辅助说明需滚动查看；设置留白压缩不等于整个设置页已适配所有短窗内容。
+- REA/CUA 边界：CUA 在解锁后的本机原生窗口直接查看设置中心截图与 AX 树，但没有保留该截图文件；REA `observe_native_ui` 因 provider 缺少可验证的进程启动时间而 `capability_unavailable`，不声称 REA 原生观察。已有 EasyUI 与 Aceternity REA 证据仅用于有限的分类/状态灵感，本轮未重新采集站点；详见 QA 记录。
+- 未覆盖：没有运行全量 `npm test`；没有验证真实 macOS 文件夹选择器、VoiceOver、签名包、Windows/Linux 或屏幕截图中的 WebContentsView 像素。
